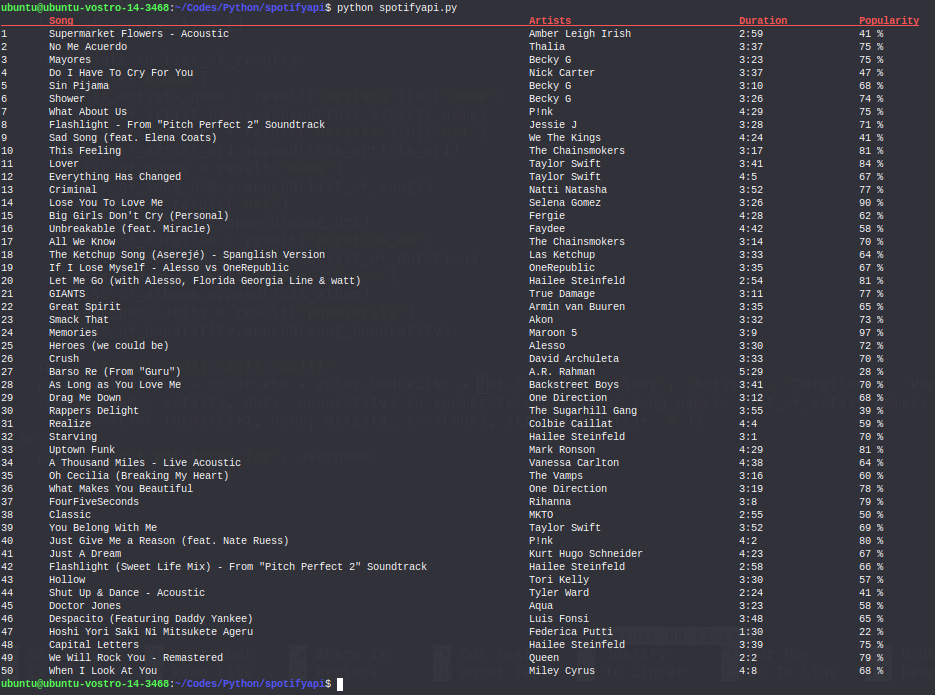
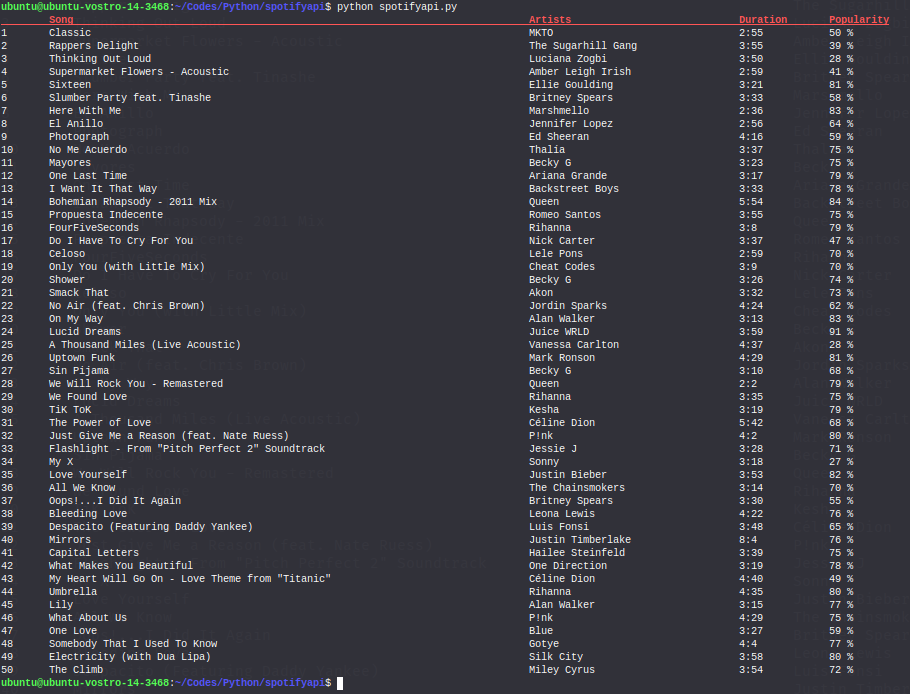
UI improvements

Changed region(s): [[0.0, 0.0, 0.4923, 0.9986], [0.7692, 0.0, 0.9846, 0.9683], [0.5538, 0.0, 0.7077, 0.9683]]

diff --git a/spotifyapi.py b/spotifyapi.py
@@ -72,7 +72,7 @@ if token:
         song_popularity = result["popularity"]
         list_of_popularity.append(song_popularity)
 
-    fmt = '{:<8}{:<80}{:<35}{:<20}{}'
+    fmt = '{:<8}{:<80}{:<35}{:<15}{}'
     print(color.BOLD + color.RED + color.UNDERLINE + fmt.format('', 'Song', 'Artists', 'Duration',  'Popularity') + color.END)
     for i, (name, artists, dur,  popularity) in enumerate(zip(list_of_song_names, list_of_artist_names, list_of_durations_ms, list_of_popularity)):
         print(fmt.format(i+1, name, artists, conv(dur), str(popularity)+' %'))
